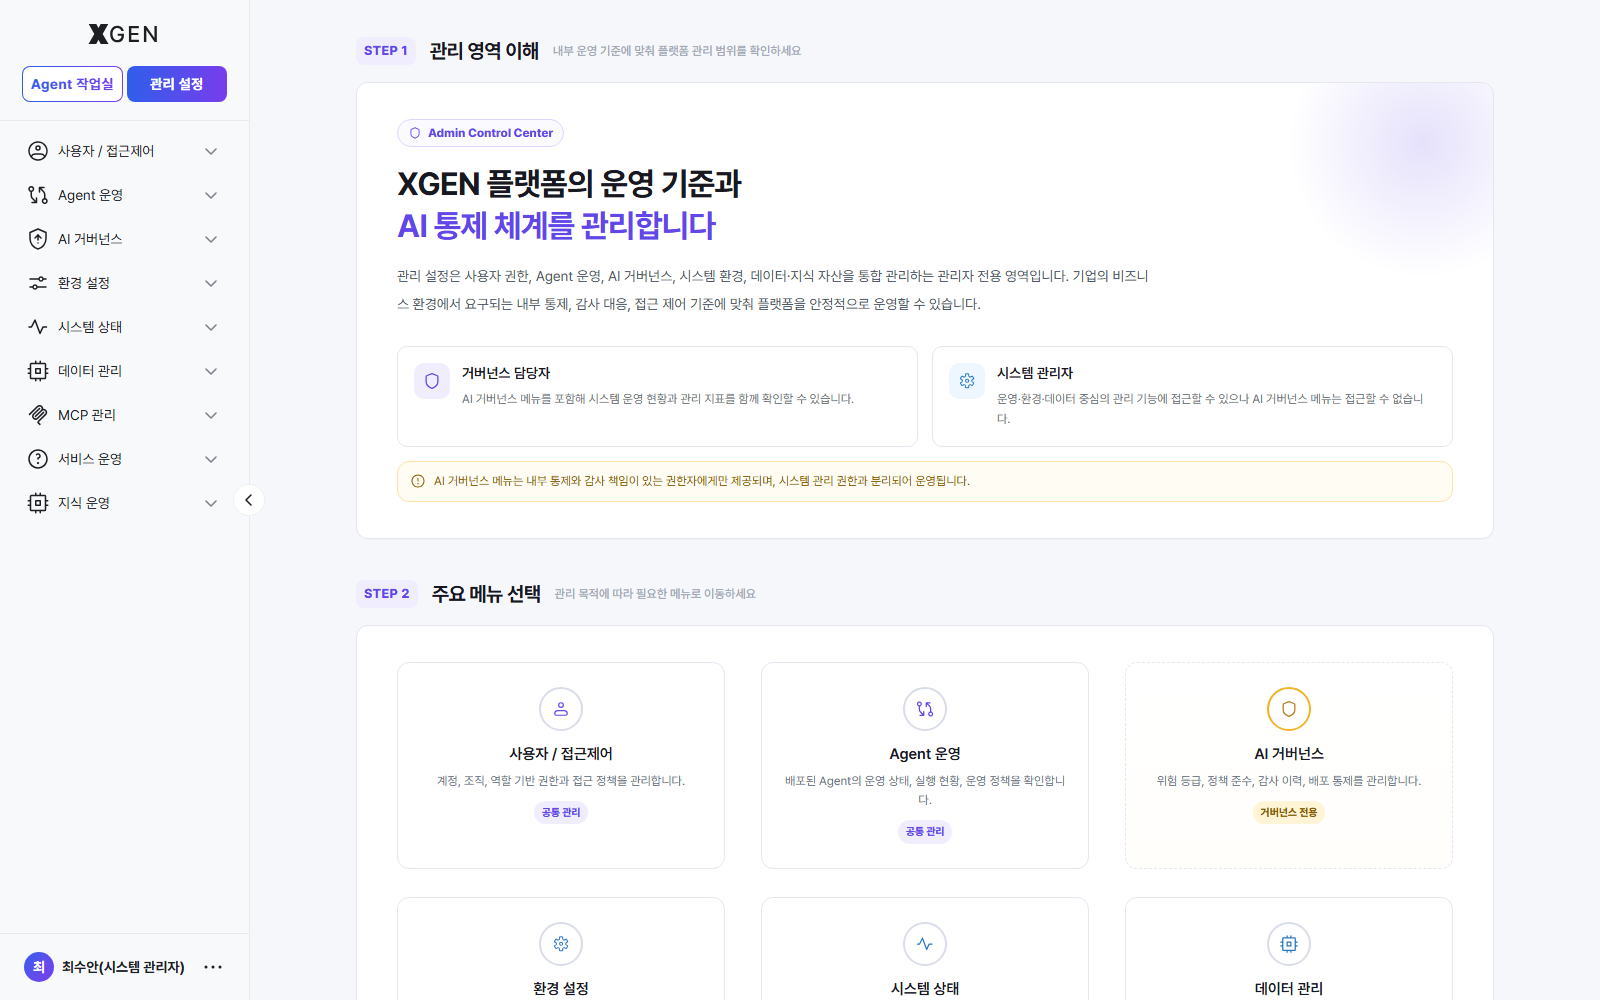
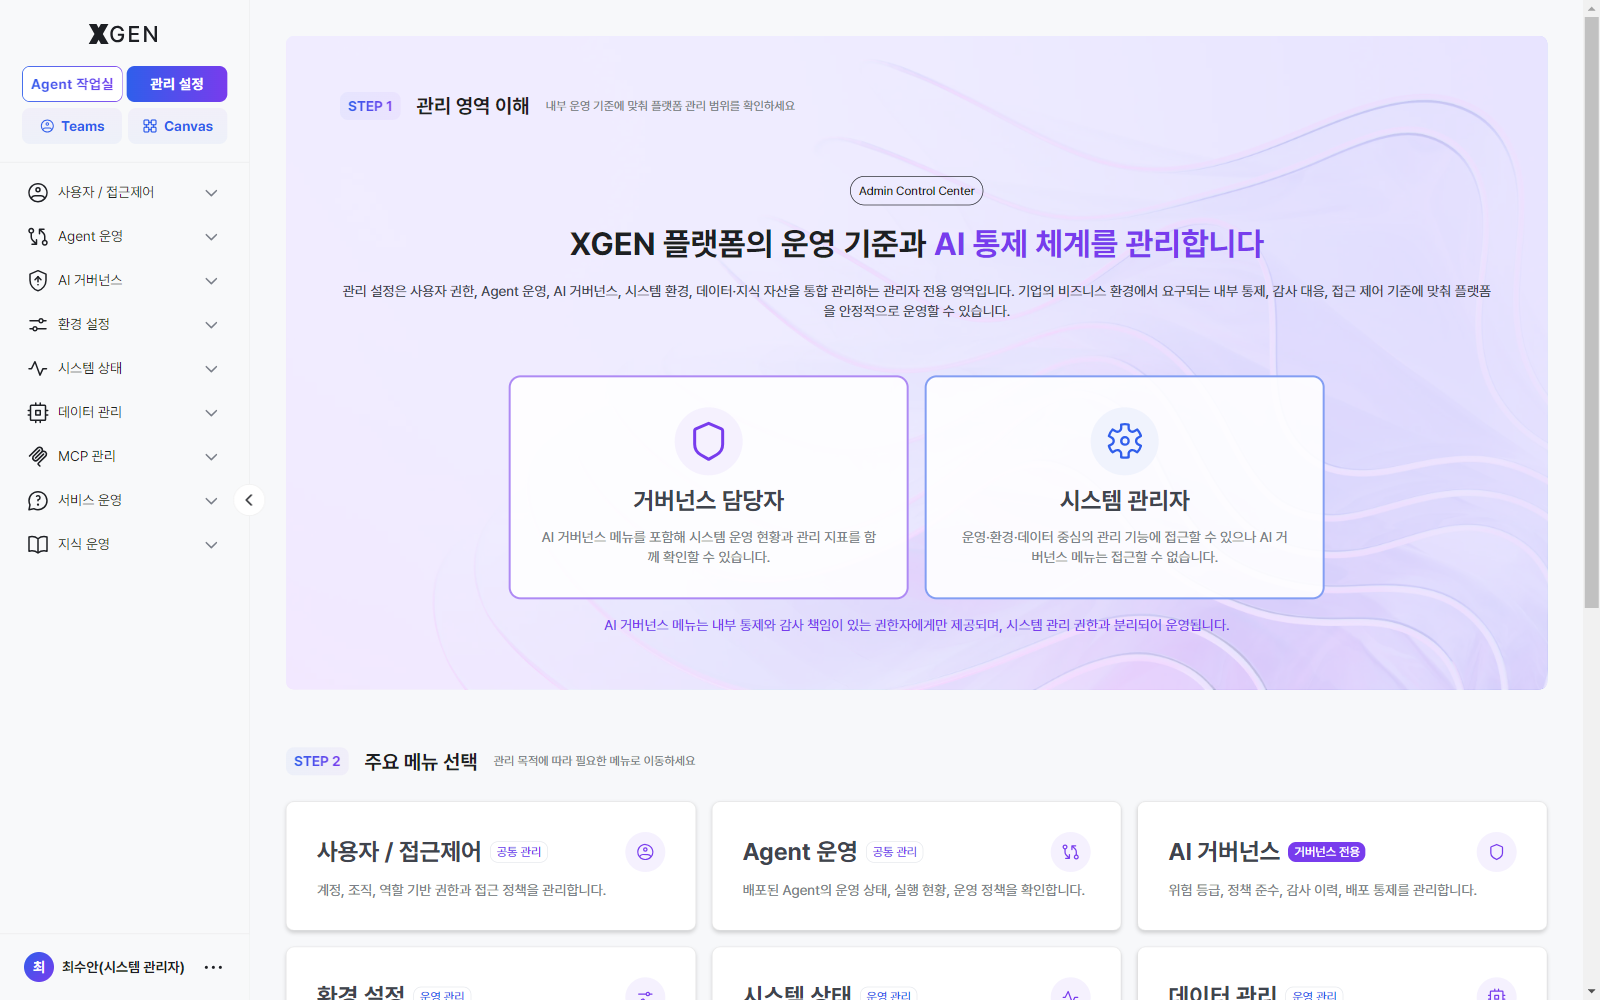
docs: refresh Agent 작업실/관리자 콘솔 개요 screenshots (standard + jeju)
라이브 새 인트로 디자인(파란/보라 그라데이션 히어로 + STEP2 역할 배지)에
맞춰 두 개요 화면 스크린샷을 재캡처.

- 표준(base): main-sidebar-v2.png, admin-entry.png ← stg-xgen 재캡처
- 제주(overlay): jeju-xgen 재캡처로 교체
  - user/images/main-sidebar-v2.png 신규(디지털제주 브랜딩·김제주 계정)
  - admin/images/admin-entry.png 갱신
  - 미참조 orphan main-sidebar.png(v1) 제거
- 20-admin-overview alt text: 사이드바 섹션 수 11→9 정정(라이브 확인, 한·영)

diff --git a/Xgen_Manual/base/admin/20-admin-overview.en.md b/Xgen_Manual/base/admin/20-admin-overview.en.md
@@ -10,7 +10,7 @@ The admin console is not reached via a direct URL. Click the **Admin Center** bu
 2. From the top-left mode-switch buttons (**Agent Workspace** / **Admin Center**), click **Admin Center**
 3. You land on the **Admin Control Center** overview, which presents the responsibilities, primary menus, and operations guide in three steps (STEP 1–3)
 
-![Admin Center entry — the Admin Control Center screen. STEP 1 Understanding Admin Areas (Governance Officer / System Administrator split), STEP 2 Pick a Main Menu (Users/Access Control, Agent Operations, AI Governance, etc. — 9 cards), with the 11-section admin sidebar on the left](images/admin-entry.png) <!-- require_view: admin-step2-9-areas -->
+![Admin Center entry — the Admin Control Center screen. STEP 1 Understanding Admin Areas (Governance Officer / System Administrator split), STEP 2 Pick a Main Menu (Users/Access Control, Agent Operations, AI Governance, etc. — 9 cards), with the 9-section admin sidebar on the left](images/admin-entry.png) <!-- require_view: admin-step2-9-areas -->
 ![Admin Center entry — the Admin Control Center screen. STEP 1 Understanding Admin Areas (System Administrator responsibility scope), STEP 2 Pick a Main Menu (Agent Operations, Environment, System Status, Data Management, Knowledge Operations — 5 cards), with the 5-section admin sidebar on the left](images/admin-entry.png) <!-- require_view: admin-step2-6-areas -->
 
 The main column is organized into three steps:

diff --git a/Xgen_Manual/base/admin/20-admin-overview.md b/Xgen_Manual/base/admin/20-admin-overview.md
@@ -10,7 +10,7 @@
 2. 화면 좌상단의 모드 전환 버튼(**Agent 작업실** / **관리 설정**) 중 **관리 설정** 클릭
 3. **Admin Control Center** 안내 화면으로 진입 — 관리 영역의 책임 분담·주요 메뉴·운영 가이드를 3단계(STEP 1~3)로 안내
 
-![관리 설정 진입 — Admin Control Center 화면. STEP 1 관리 영역 이해(거버넌스 담당자 / 시스템 관리자 책임 분담), STEP 2 주요 메뉴 선택(사용자/접근제어·Agent 운영·AI 거버넌스 등 9개 카드), 좌측에는 11개 관리 섹션 사이드바](images/admin-entry.png) <!-- require_view: admin-step2-9-areas -->
+![관리 설정 진입 — Admin Control Center 화면. STEP 1 관리 영역 이해(거버넌스 담당자 / 시스템 관리자 책임 분담), STEP 2 주요 메뉴 선택(사용자/접근제어·Agent 운영·AI 거버넌스 등 9개 카드), 좌측에는 9개 관리 섹션 사이드바](images/admin-entry.png) <!-- require_view: admin-step2-9-areas -->
 ![관리 설정 진입 — Admin Control Center 화면. STEP 1 관리 영역 이해(시스템 관리자 책임 범위), STEP 2 주요 메뉴 선택(Agent 운영·환경 설정·시스템 상태·데이터 관리·지식 운영 5개 카드), 좌측에는 5개 관리 섹션 사이드바](images/admin-entry.png) <!-- require_view: admin-step2-6-areas -->
 
 진입 후 우측 본문은 다음 3단계로 구성됩니다.
